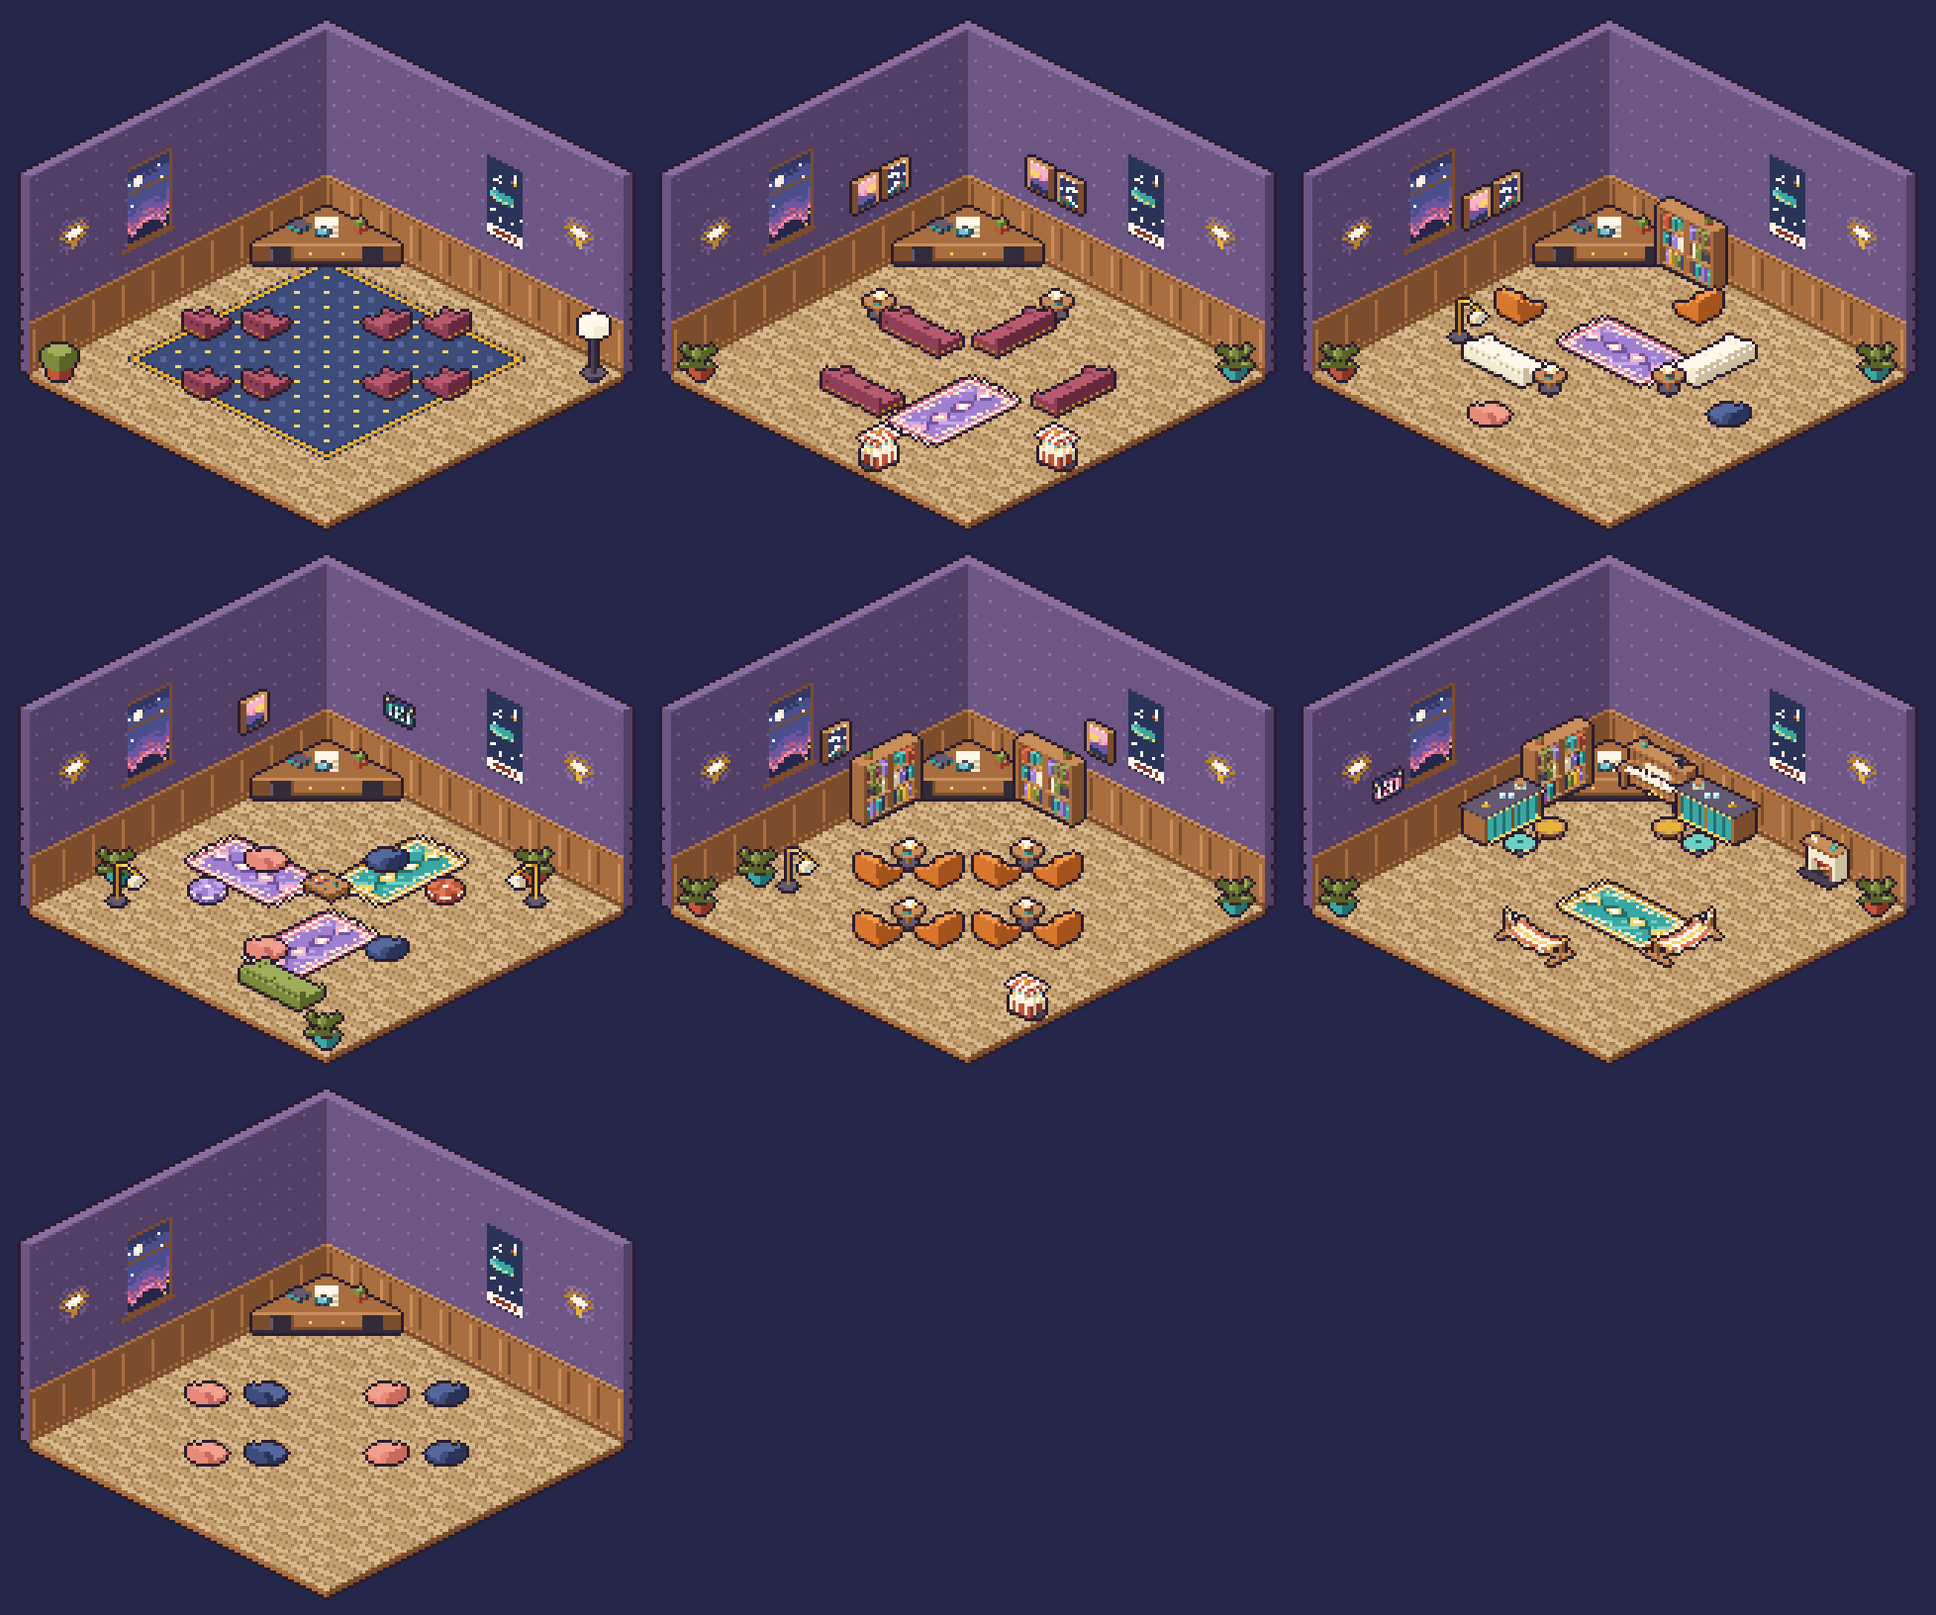
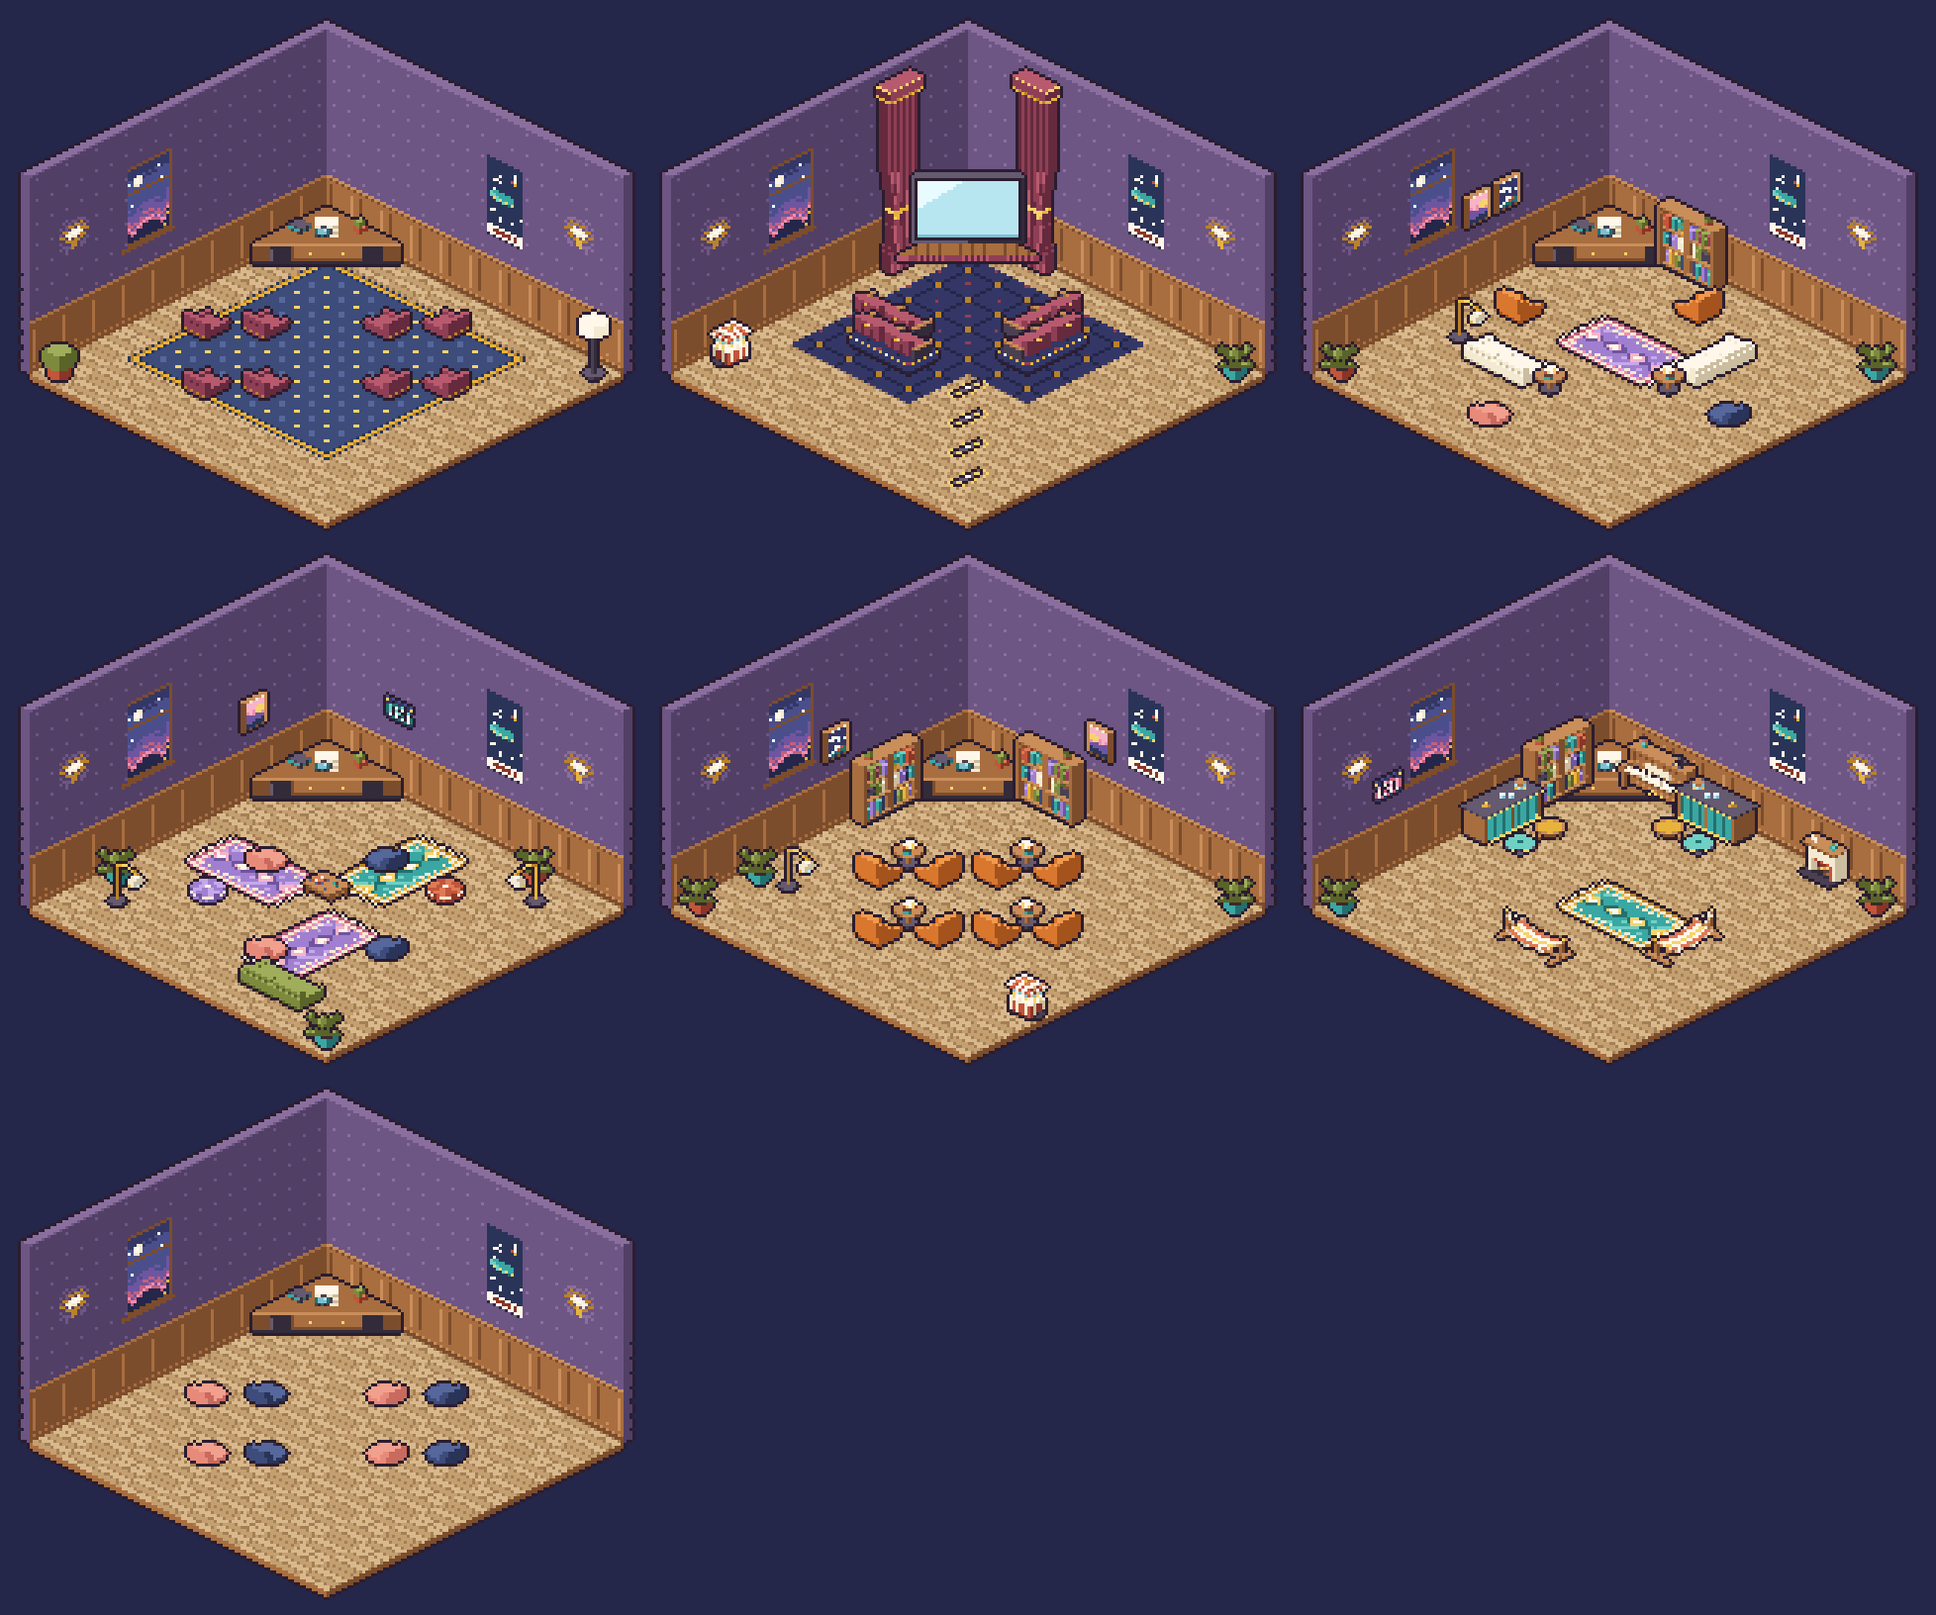
feat(OME-1630): Theatre preset on the theatre set v2; furniture-v5 lazy sheet, riser seat lift, theatre kinds in the editor
The cinema preset id becomes the Theatre: the big screen between two curtains, two tiers of theatre rows on
carpet (front on the floor, back one riser up), aisle lights down the middle; layout from OME-1639's judged
theatre room, 8 seats facing the screen. The web draws the v5 kinds from their own lazy sheet (like v4),
lifts a sitter by the row's riser (0/10/20 px, pinned to seatLiftByColour), drops the AWAITING_ART shortcut
and counts a big screen as the room's screen in the editor's problems (ADR 0056).

Changed region(s): [[0.343, 0.0312, 0.5925, 0.3125]]

diff --git a/apps/web/src/furniture.ts b/apps/web/src/furniture.ts
@@ -1,8 +1,8 @@
 // The room's furniture as a scene: seats, standing spots and set (g) sprites with their depth, from snapshot.room.layout
 // (ADR 0021). Pure, no Pixi: room-view.ts draws it, furniture-atlas.ts loads the set (g) sheet, furniture-v2-atlas.ts
-// catalogue v2 (OME-1113) and furniture-v4-atlas.ts batch 6 (OME-1439), each only when a layout needs it, room-atlas.ts the room sheet (planks, back walls and the room-atlas kinds, OME-1062) for every room.
+// catalogue v2 (OME-1113), furniture-v4-atlas.ts batch 6 (OME-1439) and furniture-v5-atlas.ts the theatre set (OME-1630), each only when a layout needs it, room-atlas.ts the room sheet (planks, back walls and the room-atlas kinds, OME-1062) for every room.
 import * as v from "valibot";
-import { DEFAULT_LAYOUT, FLOOR_CELLS, FURNITURE, MAX_ROOM_MEMBERS, footprintCells, layoutSeats, type Facing, type Furniture, type FurnitureKind, type RoomId, type RoomLayout, type RoomState } from "@omega/shared";
+import { DEFAULT_LAYOUT, FLOOR_CELLS, FURNITURE, MAX_ROOM_MEMBERS, footprintCells, type Facing, type Furniture, type FurnitureKind, type RoomId, type RoomLayout, type RoomState } from "@omega/shared";
 import { cellCenter, type Point } from "./layout";
 import { recolourKey, recolourOf } from "./recolours";
 import { cellOf } from "./walk/path";
@@ -21,6 +21,10 @@ const ROOM_KINDS: ReadonlySet<FurnitureKind> = new Set(["armchair", "tv", "lamp"
 const V2_KINDS: ReadonlySet<FurnitureKind> = new Set(["floorcushion", "bench", "turntable", "speaker", "cat", "wallshelf", "garland", "coffeetable", "pouf", "neonsign", "aquarium", "arcade", "wallclock", "door"]);
 /** Batch 6's pieces (assets/furniture/furniture-v4.json, its own lazy sheet). */
 const V4_KINDS: ReadonlySet<FurnitureKind> = new Set(["hammock", "stool", "barcounter", "piano", "fireplace"]);
+/** The theatre set's pieces (assets/furniture/furniture-v5.json, its own lazy sheet). */
+const V5_KINDS: ReadonlySet<FurnitureKind> = new Set(["theatrerow", "curtain", "bigscreen", "aislelight", "carpet"]);
+/** A theatre row's riser by variant, px a sitter is drawn higher (furniture-v5.json `seatLiftByColour`, pinned by a test). */
+const RISER_LIFT: readonly number[] = [0, 10, 20];
 /** Set (g)'s kilim runner is atlas id `rug` (layout.ts in @omega/shared). */
 const atlasId = (kind: FurnitureKind): string => (kind === "runner" ? "rug" : kind);
 
@@ -85,7 +89,7 @@ export function layoutOf(room: RoomState | null): RoomLayout {
 
 /** True if the layout holds a set (g) piece, i.e. the furniture atlas must load. */
 export function usesSetG(layout: RoomLayout): boolean {
-  return layout.furniture.some((f) => !ROOM_KINDS.has(f.kind) && !V2_KINDS.has(f.kind) && !V4_KINDS.has(f.kind));
+  return layout.furniture.some((f) => !ROOM_KINDS.has(f.kind) && !V2_KINDS.has(f.kind) && !V4_KINDS.has(f.kind) && !V5_KINDS.has(f.kind));
 }
 
 /** True if the layout holds a catalogue v2 piece, i.e. the v2 sheet must load. */
@@ -100,12 +104,19 @@ export function usesV4(layout: RoomLayout): boolean {
 
 /** True if the layout holds a theatre piece, i.e. the v5 sheet must load. */
 export function usesV5(layout: RoomLayout): boolean {
-  return layout.furniture.length < 0; // stub (OME-1630 red)
+  return layout.furniture.some((f) => V5_KINDS.has(f.kind));
+}
+
+/** Where a sitter on `f`'s seat cell (col, row) is drawn: the cell centre, raised by a theatre row's riser. */
+function seatAt(f: Furniture, col: number, row: number): Point {
+  const p = cellCenter(col, row);
+  const lift = f.kind === "theatrerow" ? (RISER_LIFT[f.variant ?? 0] ?? 0) : 0;
+  return lift === 0 ? p : { x: p.x, y: p.y - lift };
 }
 
 /** Seat i's floor point (ADR 0021: the i-th seat cell across seat pieces, in furniture order). */
 export function seatPoints(layout: RoomLayout): Point[] {
-  return layoutSeats(layout).map((s) => cellCenter(s.col, s.row));
+  return layout.furniture.flatMap((f) => (FURNITURE[f.kind].seats ? footprintCells(f).map(([c, r]) => seatAt(f, c, r)) : []));
 }
 
 /** Rows (col + row) for people without a seat, front of the room first, filled in order. */
@@ -242,7 +253,7 @@ export function sceneOf(layout: RoomLayout, manifests: readonly FurnitureManifes
     else if (room !== null) pushRoomPiece(sprites, f, anchor);
     if (!spec.seats) continue;
     for (const [c, r] of footprintCells(f)) {
-      const at = cellCenter(c, r);
+      const at = seatAt(f, c, r);
       // Cells further from the anchor are nearer the camera (+col and +row both step down the screen).
       const near = c - f.col + (r - f.row);
       const z = drawn === null ? standDepth(at) : depth(anchor.x + drawn.sort.x, anchor.y + drawn.sort.y, drawn.layers.avatar, near);

diff --git a/assets/src/presets.ts b/assets/src/presets.ts
@@ -1,7 +1,7 @@
 // Set (n) (OME-906, M10): pre-furnished room presets. A creator picks one when they make a room; each is a plain layout v1
 // (ADR 0021, packages/shared/src/layout.ts), so the server stores it like any owner edit and nothing new ships but the
 // thumbnails. Rules every preset keeps:
-//   - the TV console stays in the back corner (0,0): the picture is page chrome above the room, the console "throws" it;
+//   - the TV console (or the Theatre's big screen) stays in the back corner (0,0): the picture is page chrome above the room, the console "throws" it;
 //   - exactly 8 seat cells, all facing the TV corner (ne / nw), seat 0 in the front row so the first guest sits up close;
 //   - a clear walk line down the middle diagonal, so avatars reach every seat;
 //   - nothing on the window / poster / sconce wall segments (5, 6, 8), even wall-backed pieces.
@@ -38,19 +38,20 @@ export const PRESETS: readonly Preset[] = [
   },
   {
     id: "cinema",
-    name: "Cinema",
-    blurb: "Red velvet sofas in rows, posters and a popcorn cart.",
+    name: "Theatre",
+    blurb: "Rows on risers facing the big screen, curtains drawn back.",
     layout: {
       furniture: [
-        TV,
-        // Front row, then back row: a V of club sofas pointing at the screen, the aisle down the middle.
-        p("sofa", 2, 4, "ne"), p("sofa", 4, 2, "nw"),
-        p("sofa", 3, 7, "ne"), p("sofa", 7, 3, "nw"),
-        p("runner", 5, 5, "nw"),
-        p("sidetable", 1, 4, "se"), p("sidetable", 4, 1, "sw"),
-        p("popcorn", 6, 9, "se"), p("popcorn", 9, 6, "sw"),
-        p("frame", 0, 2, "se", 1), p("frame", 0, 3, "se"), p("frame", 2, 0, "sw"), p("frame", 3, 0, "sw", 1),
-        p("monstera", 0, 9, "se"), p("monstera", 9, 0, "sw", 1),
+        // The theatre set (OME-1639's judged theatre room, OME-1630): the big screen in the TV corner between two
+        // curtains, two tiers of rows on carpet (front on the floor, back one riser up), aisle lights down the middle.
+        p("bigscreen", 0, 0, "se"),
+        p("curtain", 2, 0, "sw"), p("curtain", 0, 2, "se"),
+        p("carpet", 1, 1, "se"), p("carpet", 3, 1, "se"), p("carpet", 5, 1, "se"), p("carpet", 1, 3, "se"),
+        p("carpet", 3, 3, "se"), p("carpet", 5, 3, "se"), p("carpet", 1, 5, "se"), p("carpet", 3, 5, "se"),
+        p("aislelight", 5, 5, "nw"), p("aislelight", 6, 6, "nw"), p("aislelight", 7, 7, "nw"), p("aislelight", 8, 8, "nw"),
+        p("theatrerow", 1, 4, "ne"), p("theatrerow", 4, 1, "nw"),
+        p("theatrerow", 2, 5, "ne", 1), p("theatrerow", 5, 2, "nw", 1),
+        p("popcorn", 0, 8, "se"), p("monstera", 9, 0, "sw", 1),
       ],
     },
   },

diff --git a/apps/web/src/stage.ts b/apps/web/src/stage.ts
@@ -9,7 +9,7 @@ import { el, renderSyslines } from "./controls/dom";
 import { createEmoteBadges } from "./emote/badges";
 import { createReactionGlyphs } from "./reactions/glyphs";
 import type { FurnitureAtlas } from "./furniture-atlas";
-import { doorAt, layoutKey as keyOfLayout, layoutOf, piecesInUse, sceneOf, seatPoints, standDepth, standingPoints, usesSetG, usesV2, usesV4 } from "./furniture";
+import { doorAt, layoutKey as keyOfLayout, layoutOf, piecesInUse, sceneOf, seatPoints, standDepth, standingPoints, usesSetG, usesV2, usesV4, usesV5 } from "./furniture";
 import type { RoomAtlas } from "./room-atlas";
 import type { RecolourSheets } from "./recolour-sheets";
 import { recolourOf, recoloursIn, type RecolourSheet } from "./recolours";
@@ -277,6 +277,8 @@ export async function createStage(o: StageOptions): Promise<Stage> {
   let v2Atlas: FurnitureAtlas | null = null;
   /** Batch 6's atlas once loaded (OME-1439); same shape again. */
   let v4Atlas: FurnitureAtlas | null = null;
+  /** The theatre set's atlas once loaded (OME-1630); same shape again. */
+  let v5Atlas: FurnitureAtlas | null = null;
   /** The room atlas (planks, walls, room-atlas kinds) once loaded; every room uses it. */
   let roomAtlas: RoomAtlas | null = null;
   /** The new colours' sheet copies (OME-1463), once a layout used one; `recolouring` names the copies asked for. */
@@ -298,9 +300,9 @@ export async function createStage(o: StageOptions): Promise<Stage> {
   const hourglasses = new Map<HTMLElement, HTMLElement>();
 
   const buildScene = (l: RoomLayout): void => {
-    const catalogues = [atlas, v2Atlas, v4Atlas].flatMap((a) => (a === null ? [] : [a.manifest]));
+    const catalogues = [atlas, v2Atlas, v4Atlas, v5Atlas].flatMap((a) => (a === null ? [] : [a.manifest]));
     scene = sceneOf(l, catalogues, roomAtlas?.manifest ?? null);
-    view.setScene(scene, [atlas, v2Atlas, v4Atlas, roomAtlas, recolours], grid);
+    view.setScene(scene, [atlas, v2Atlas, v4Atlas, v5Atlas, roomAtlas, recolours], grid);
     drawnSeats = undefined;
   };
 
@@ -373,6 +375,9 @@ export async function createStage(o: StageOptions): Promise<Stage> {
     }
     if (usesV4(next) && v4Atlas === null) {
       lazyAtlas("furniture v4", key, next, () => import("./furniture-v4-atlas").then((m) => m.loadFurnitureV4Atlas()), (a) => (v4Atlas = a));
+    }
+    if (usesV5(next) && v5Atlas === null) {
+      lazyAtlas("furniture v5", key, next, () => import("./furniture-v5-atlas").then((m) => m.loadFurnitureV5Atlas()), (a) => (v5Atlas = a));
     }
   };
 

diff --git a/apps/web/src/editor/draft.ts b/apps/web/src/editor/draft.ts
@@ -7,6 +7,7 @@ import {
   RoomLayoutSchema,
   SEAT_COUNT,
   footprintCells,
+  isScreen,
   layoutSeats,
   type Facing,
   type Furniture,
@@ -139,7 +140,7 @@ export function problems(layout: Layout): Problem[] {
   const out: Problem[] = [];
   const f = layout.furniture;
   if (f.length > MAX_FURNITURE) out.push({ code: "too-many", have: f.length, max: MAX_FURNITURE });
-  const tvs = f.filter((p) => p.kind === "tv").length;
+  const tvs = f.filter((p) => isScreen(p.kind)).length;
   if (tvs !== 1) out.push({ code: "tv", have: tvs });
   const seats = layoutSeats(layout).length;
   if (seats !== SEAT_COUNT) out.push({ code: "seats", have: seats, need: SEAT_COUNT });
@@ -176,9 +177,7 @@ export interface TrayTab {
   readonly kinds: readonly FurnitureKind[];
 }
 
-// shortcut: the theatre kinds (OME-1625) have no sheet until furniture-v5 (OME-1639) lands; OME-1630 wires it and drops this.
-export const AWAITING_ART: ReadonlySet<FurnitureKind> = new Set(["theatrerow", "curtain", "bigscreen", "aislelight", "carpet"]);
-const kindsWhere = (pick: (k: FurnitureKind) => boolean): readonly FurnitureKind[] => FURNITURE_KINDS.filter((k) => !AWAITING_ART.has(k) && pick(k));
+const kindsWhere = (pick: (k: FurnitureKind) => boolean): readonly FurnitureKind[] => FURNITURE_KINDS.filter(pick);
 
 /** What the owner typed or pasted as a door's room (OME-1425): a room link of this site, or a bare room id. */
 export function parseDoorTarget(text: string, origin: string, current: RoomId): { readonly ok: true; readonly id: RoomId } | { readonly ok: false; readonly error: string } {

diff --git a/apps/web/src/editor/colours.ts b/apps/web/src/editor/colours.ts
@@ -4,12 +4,13 @@ import type { FurnitureKind } from "@omega/shared";
 import furnitureJson from "../../../../assets/furniture/furniture.json";
 import furnitureV2Json from "../../../../assets/furniture/furniture-v2.json";
 import furnitureV4Json from "../../../../assets/furniture/furniture-v4.json";
+import furnitureV5Json from "../../../../assets/furniture/furniture-v5.json";
 import { FurnitureManifestSchema } from "../furniture";
 import { recolourIds } from "../recolours";
 
-/** Colour names per catalogue piece, set (g), v2 and batch 6 (the kilim runner is atlas id `rug`); the room atlas pieces have none. */
+/** Colour names per catalogue piece, set (g), v2, batch 6 and the theatre set (the kilim runner is atlas id `rug`); the room atlas pieces have none. */
 const COLOURS: ReadonlyMap<string, readonly string[]> = new Map(
-  [furnitureJson, furnitureV2Json, furnitureV4Json].flatMap((json) => v.parse(FurnitureManifestSchema, json).meta.omega.pieces.map((p) => [p.id, p.colours] as const)),
+  [furnitureJson, furnitureV2Json, furnitureV4Json, furnitureV5Json].flatMap((json) => v.parse(FurnitureManifestSchema, json).meta.omega.pieces.map((p) => [p.id, p.colours] as const)),
 );
 export const atlasId = (kind: FurnitureKind): string | null => {
   if (kind === "armchair" || kind === "tv" || kind === "lamp" || kind === "plant" || kind === "rug") return null;

diff --git a/apps/web/src/furniture-v5-atlas.ts b/apps/web/src/furniture-v5-atlas.ts
@@ -1,0 +1,13 @@
+// Theatre set v2 atlas (assets/furniture/furniture-v5, CC BY-SA 4.0, OME-1639): theatre rows on risers, curtain, big
+// screen, aisle lights, carpet. Its own chunk, like v4's: stage.ts imports it only when a layout uses one of them (OME-1630).
+import * as v from "valibot";
+import json from "../../../assets/furniture/furniture-v5.json";
+import pngUrl from "../../../assets/furniture/furniture-v5.png?url";
+import { loadSheet, once } from "./atlas-sheet";
+import { FurnitureManifestSchema } from "./furniture";
+import type { FurnitureAtlas } from "./furniture-atlas";
+
+export const loadFurnitureV5Atlas = once(async (): Promise<FurnitureAtlas> => {
+  const manifest = v.parse(FurnitureManifestSchema, json);
+  return { manifest, ...(await loadSheet(manifest.frames, pngUrl)) };
+});

diff --git a/apps/web/test/furniture.test.ts b/apps/web/test/furniture.test.ts
@@ -617,4 +617,10 @@ describe("theatre set: rows on risers, curtain, big screen, aisle lights, carpet
     expect(seatPoints(l)).toEqual([up(1, 4, 0), up(2, 4, 0), up(4, 1, 10), up(4, 2, 10), up(3, 7, 20), up(4, 7, 20), up(7, 3, 20), up(7, 4, 20)]);
     expect(sceneOf(l, [v5]).seats.map((x) => x.at)).toEqual(seatPoints(l));
   });
+
+  test("the lifts are the art's riser heights (furniture-v5.json seatLiftByColour)", async () => {
+    const raw: unknown = await Bun.file(new URL("../../../assets/furniture/furniture-v5.json", import.meta.url)).json();
+    expect(JSON.stringify(raw)).toContain('"colours":["floor","step","high"]');
+    expect(JSON.stringify(raw)).toContain('"seatLiftByColour":{"floor":0,"step":10,"high":20}');
+  });
 });
